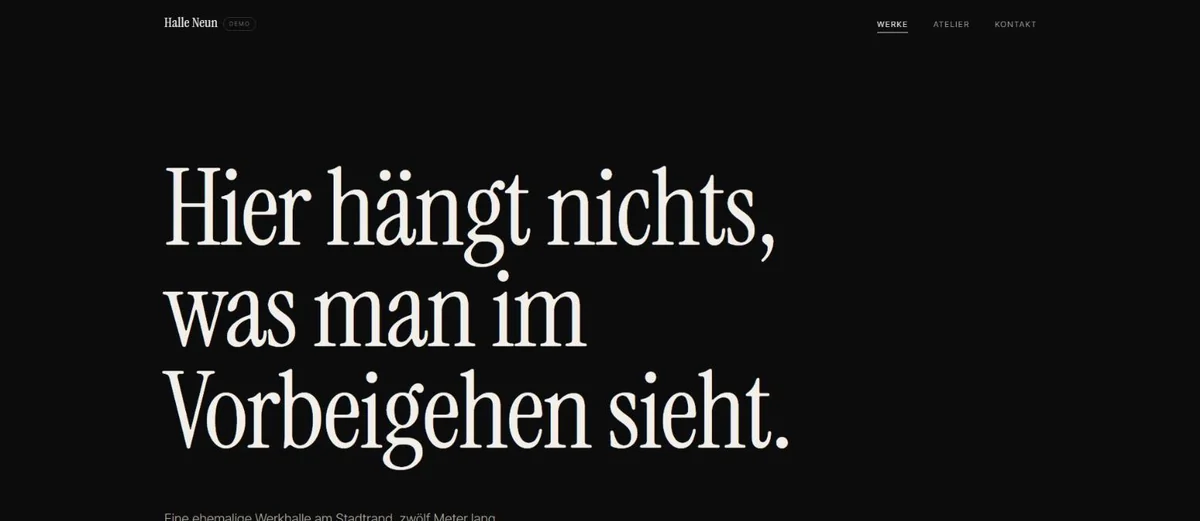
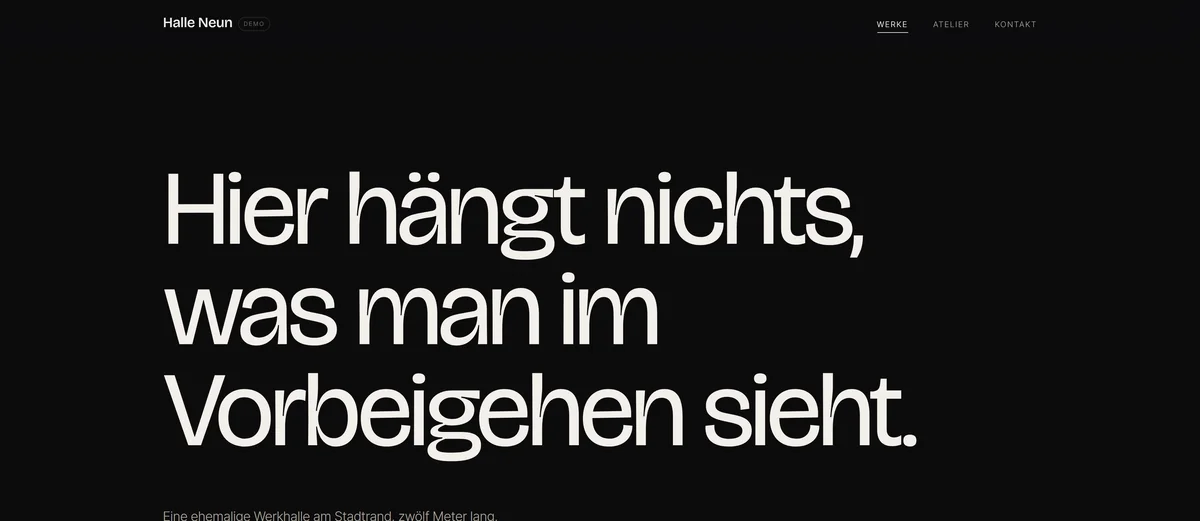
Stop the gallery grid from running off the phone screen
The mobile rule raised `gap`, meaning the space between stacked tiles,
but gap is the shorthand for both axes. A twelve-column grid has eleven
column gaps, so at 390px that came to 440px of gap inside a 350px
content area: the grid, the tiles and their images all stood 440px
wide and the page slid sideways. Row and column gap are now set
separately.

The column gap was never visible here anyway, since every tile spans
all twelve columns at this width.

minmax(0, 1fr) is not the cause, just prevention: a 1fr track's floor
is its content, and a percentage-width image counts at its own 1376px.

Measured through the DevTools protocol at a real 390px viewport.
Before: scrollWidth 461, 80 elements past the edge. After: 390 and
none. Eleven other pages checked as a control and all were clean.

The gallery card's preview still showed Instrument Serif, so both
sizes are reshot at the same framing as its two siblings.

diff --git a/templates/art-gallery/css/style.css b/templates/art-gallery/css/style.css
@@ -353,9 +353,14 @@ cite {
   letter-spacing: -0.02em;
 }
 
+/* minmax(0, 1fr) statt 1fr: Eine 1fr-Spur hat als Minimum den Inhalt ihrer
+   Zellen, nicht null, und kann deshalb breiter werden als der Anteil, der ihr
+   zusteht. Hier hält das nichts auf, sondern beugt vor: In einer Zelle steht
+   ein Bild, und ein Bild mit prozentualer Breite zählt in dieser Rechnung mit
+   seiner eigenen Breite von 1376 px. */
 .grid {
   display: grid;
-  grid-template-columns: repeat(12, 1fr);
+  grid-template-columns: repeat(12, minmax(0, 1fr));
   gap: var(--gap) var(--gap);
 }
 
@@ -481,8 +486,15 @@ cite {
 }
 
 @media (max-width: 699px) {
+  /* Nur der Zeilenabstand wächst. `gap` ist die Kurzform für beide Achsen, und
+     damit setzte diese Zeile auch 40 px zwischen die Spalten. Bei zwölf Spalten
+     sind das elf Abstände, zusammen 440 px, in einem Telefon von 390 px: Das
+     Raster stand breiter als der Bildschirm und die Seite liess sich seitwärts
+     schieben. Sichtbar war der Spaltenabstand hier nie, weil auf dieser Breite
+     jede Zelle über alle zwölf Spalten spannt. */
   .grid {
-    gap: clamp(2.5rem, 9vw, 3.5rem);
+    column-gap: 0;
+    row-gap: clamp(2.5rem, 9vw, 3.5rem);
   }
 }
 

diff --git a/PROJECT-STATUS.md b/PROJECT-STATUS.md
@@ -1,6 +1,6 @@
 # KettenKI — Project Status
 
-_Letzte Aktualisierung: 2026-09-23 (Galerie auf Bricolage Grotesque, Startseite auf dem Handy mittig, beides deployt)_
+_Letzte Aktualisierung: 2026-09-24 (Querscroll der Galerie auf dem Telefon behoben, Vorschaubild der Galeriekarte neu)_
 
 > **Hinweis:** Dieses Dokument wird laufend aktualisiert, sobald sich am Projektstand etwas ändert. Bei jedem Fortschritt (erledigt, blockiert, neu offen) bitte hier nachführen, nicht nur in `SPEC.md`.
 
@@ -500,6 +500,14 @@ Bezieht sich auf `SPEC.md` (Portfolio, Blog & Chatbot).
   - **Drei Regeln im bestehenden 768-px-Block**, direkt hinter den Regeln, die dieselben Blöcke auf eine Spalte bringen: `.offer-card { text-align: center }`, `.process-block { text-align: center }` und `.offer-mascot { margin-inline: auto }`. Das Maskottchen ist ein Kreis fester Breite und damit kein Textinhalt, den richtet `text-align` nicht aus.
   - **Nichts anderes ist betroffen:** `.offer-card` und `.process-block` kommen nur in `index.html` vor, geprüft per `grep` über alle HTML-Dateien. Ab 769 px bleibt alles linksbündig wie bisher.
   - **Geprüft** auf `python -m http.server` in Chrome. Die Erweiterung liess den echten Viewport nicht unter 1280 px stellen (`resize_window` wirkte auf das Fenster, nicht auf `innerWidth`), deshalb zweigleisig: über das CSSOM bestätigt, dass die drei Regeln im `(max-width: 768px)`-Block aus `responsive.css` stehen, und die Einspaltigkeit samt der drei Regeln zusätzlich per eingespritztem Stylesheet nachgestellt und angesehen. Karten und Ablauf stehen dabei mittig, Maskottchen, Titel, Text und Link jeweils auf der Achse.
+
+- [x] **Die Galerie liess sich auf dem Telefon seitwärts schieben, und ihr Vorschaubild zeigte noch die alte Schrift** (2026-09-24, beides von Javi gefunden).
+  - **Der Querscroll kam aus der Kurzform `gap`.** In `templates/art-gallery/css/style.css` stand unter `@media (max-width: 699px)` die Zeile `.grid { gap: clamp(2.5rem, 9vw, 3.5rem) }`. Gemeint war der Abstand zwischen den untereinander stehenden Zellen, gesetzt hat sie beide Achsen. Das Raster hat zwölf Spalten, also elf Spaltenabstände: bei 390 px Fensterbreite sind das elf mal 40 px gleich 440 px, in einem Inhaltsbereich von 350 px. Das Raster stand 440 px breit, die Zellen und damit die Bilder ebenso. Neu `column-gap: 0` und `row-gap: clamp(...)`, getrennt statt in der Kurzform. Sichtbar war der Spaltenabstand auf dieser Breite ohnehin nie, weil jede Zelle über alle zwölf Spalten spannt.
+  - **`body { overflow-x: hidden }` stand schon da und hat nichts genützt.** Im Messlauf war `documentElement.scrollWidth` trotzdem 461 px bei 390 px Fenster. Die Zeile bleibt stehen, aber sie ist kein Schutz: Sie war bereits da, als der Fehler auftrat. Wer hier etwas baut, verlasse sich nicht auf sie.
+  - **Zusätzlich `repeat(12, minmax(0, 1fr))` statt `repeat(12, 1fr)`.** Das war nicht die Ursache, sondern Vorsorge: Eine `1fr`-Spur hat als Minimum den Inhalt ihrer Zellen, und ein Bild mit prozentualer Breite zählt dabei mit seiner eigenen Breite von 1376 px mit.
+  - **Gemessen statt geschätzt**, mit Chrome headless über das DevTools-Protokoll bei echtem Viewport von 390 px (die Chrome-Erweiterung war nicht verbunden und liess den Viewport ohnehin nie unter 1280 px). Vorher: `scrollWidth` 461 bei 390, 80 Elemente ragten heraus. Nachher: `scrollWidth` 390, keines. **Gegenprobe auf elf weiteren Seiten** (Startseite, Beispiele, beide Keramikseiten, Sprachschule, Werkseite der Galerie, Über mich, Lösungen, Kontakt, Portfolio, Blog): alle sauber, der Fehler steckte nur in der Galerie.
+  - **Das Vorschaubild der Galeriekarte** in `templates/index.html` zeigte noch die Instrument Serif, weil es vor dem Schriftwechsel vom Vortag aufgenommen wurde. `templates/img/art-gallery-{lg,sm}.webp` neu aufgenommen. **Der Bildausschnitt ist derselbe wie bei den zwei Geschwisterkarten:** aus den alten Dateien zurückgerechnet, dass bei 1900 px Fensterbreite aufgenommen wurde (der Text beginnt in beiden bei 13.58 Prozent der Breite), dann auf 1200×521 und 600×261 verkleinert, WebP Qualität 85, womit die Dateien so schwer sind wie vorher (24.5 statt 24.2 KB, 11.8 statt 10.6 KB).
+  - **Die zwei anderen Karten wurden geprüft, nicht angefasst:** beide neu aufgenommen und pixelweise gegen die abgelegten Dateien gerechnet. Keramik weicht im Mittel um 2.83 von 255 ab, die Sprachschule um 4.42; beide Male ist das Kompressionsrauschen, im Bildvergleich stehen Titel, Knöpfe und Foto identisch. Nur die Galerie war veraltet.
 
 
 ## Blockiert — wartet auf Input
